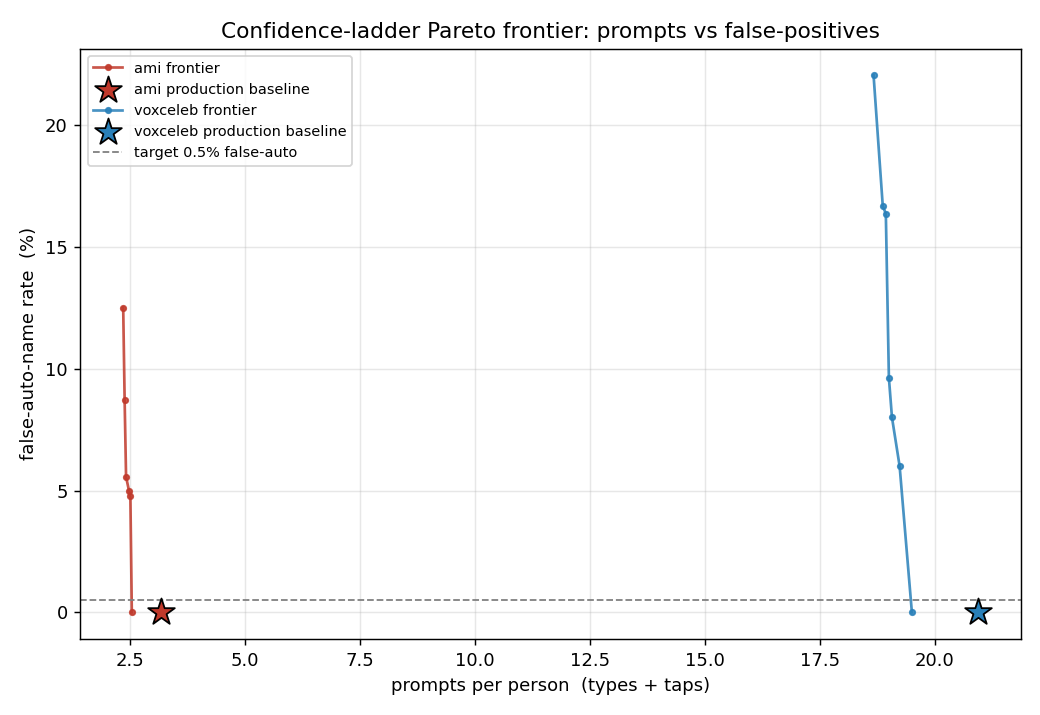
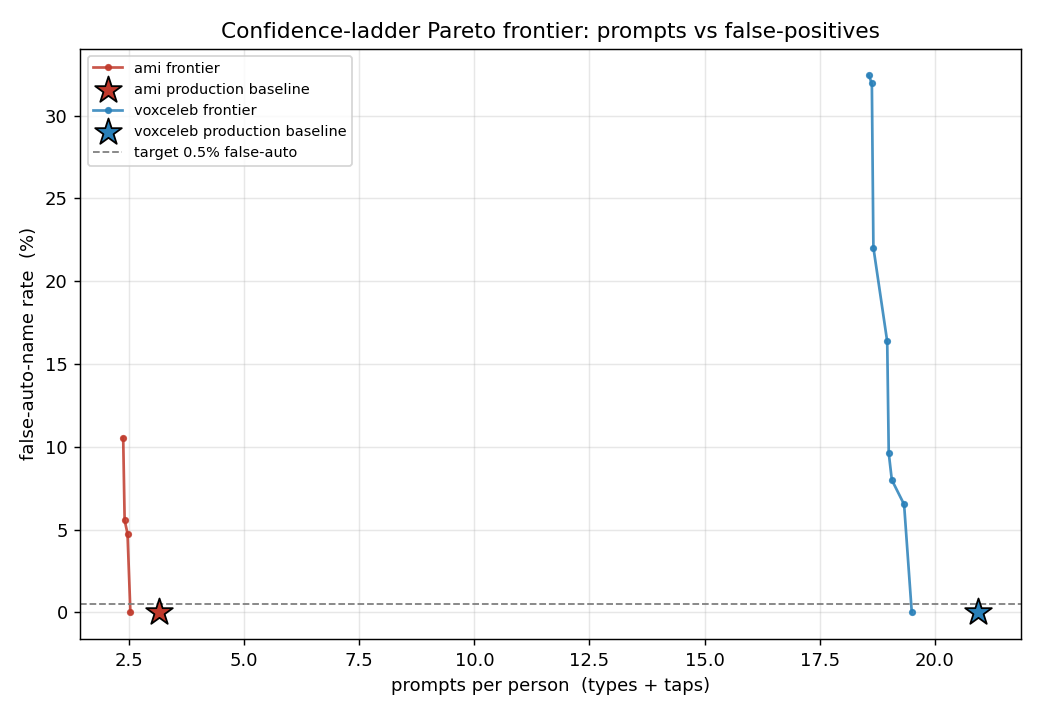
eval(ladder): fix two P2 sim-accounting bugs from independent review
Codex review (PASS, no P1) found two accounting bugs that biased non-baseline policy rows:
- Pre-poison snapshot was taken AFTER the EMA blend, so demote+un-blend restored the
  already-poisoned centroid. Now snapshot before blend.
- After a wrong-SUGGEST correction / UNKNOWN-merge, evidence was credited using the rejected
  candidate's similarity/margin instead of the true target profile's. Now recompute the
  similarity against the actual profile being updated (user-confirmed => no-competitor margin).

Headline numbers and per-domain recommendations are unchanged (AMI 3.16->2.53 pp, VoxCeleb
20.93->19.50 pp, both 0% false-auto). Demote/un-blend matched-pair deltas refined slightly
(AMI demote +8.2pp false-auto; VoxCeleb un-blend still raises drift). ladder-parity still PASS.

diff --git a/Tools/SpeakerEvalHarness/Sources/speaker-eval-harness/LadderSweep.swift b/Tools/SpeakerEvalHarness/Sources/speaker-eval-harness/LadderSweep.swift
@@ -181,6 +181,12 @@ func simulate(_ policy: Policy, _ cache: FpCache,
     }
 
     func enroll(_ idx: Int, _ query: [Float], correct: Bool, sim: Double, marginGate: Double) {
+        // Snapshot the CLEAN pre-poison centroid BEFORE blending the wrong fingerprint in,
+        // so demote+un-blend can later restore it (else it restores the already-poisoned vector).
+        if !correct && !profiles[idx].poisoned {
+            profiles[idx].prePoison = profiles[idx].embedding
+            profiles[idx].poisoned = true
+        }
         profiles[idx].embedding = emaBlend(existing: profiles[idx].embedding, incoming: query, alpha: policy.emaAlpha)
         profiles[idx].callCount += 1
         profiles[idx].confidence = min(1.0, profiles[idx].confidence + 0.1)
@@ -188,8 +194,6 @@ func simulate(_ policy: Policy, _ cache: FpCache,
         if correct {
             vadd(&profiles[idx].cleanSum, query)
             profiles[idx].cleanCount += 1
-        } else {
-            if !profiles[idx].poisoned { profiles[idx].prePoison = profiles[idx].embedding; profiles[idx].poisoned = true }
         }
     }
 
@@ -201,13 +205,17 @@ func simulate(_ policy: Policy, _ cache: FpCache,
         byLabel[lbl] = profiles.count - 1
     }
 
-    // route a fingerprint to its correct profile (create or merge-by-name); returns whether new
+    // route a fingerprint to its correct profile (create or merge-by-name); returns whether new.
+    // Evidence/credit must reflect THIS profile (the one being updated), not the rejected/global
+    // gate candidate — so recompute the similarity against the true target's centroid here. A
+    // user-confirmed correction is unambiguous, so the margin is treated as no-competitor (∞).
     @discardableResult
-    func routeToCorrect(_ gt: String, _ query: [Float], sim: Double, marginGate: Double) -> Bool {
+    func routeToCorrect(_ gt: String, _ query: [Float]) -> Bool {
         if let idx = byLabel[gt] {
             // repair a disputed profile when the user names it correctly
             if profiles[idx].disputeCount > 0 { profiles[idx].disputeCount = 0 }
-            enroll(idx, query, correct: true, sim: sim, marginGate: marginGate)
+            let trueSim = Transcription.cosineSimilarityStatic(query, profiles[idx].embedding)
+            enroll(idx, query, correct: true, sim: trueSim, marginGate: .infinity)
             return false
         } else {
             createProfile(gt, query)
@@ -239,7 +247,7 @@ func simulate(_ policy: Policy, _ cache: FpCache,
                 perPerson[gt]!.types += 1
                 r.types += 1
                 let existedBefore = byLabel[gt] != nil
-                routeToCorrect(gt, query, sim: best, marginGate: marginGate)
+                routeToCorrect(gt, query)
                 if existedBefore { r.falseUnknowns += 1 }   // missed recurrence
                 correct = true   // user typed the right name -> transcript correct
             } else {
@@ -285,7 +293,7 @@ func simulate(_ policy: Policy, _ cache: FpCache,
                         }
                         // user then names the correct person: new type, or tap-select existing
                         let isNew = (byLabel[gt] == nil)
-                        routeToCorrect(gt, query, sim: best, marginGate: marginGate)
+                        routeToCorrect(gt, query)
                         if isNew { perPerson[gt]!.types += 1; r.types += 1 }
                         else { perPerson[gt]!.taps += 1; r.taps += 1 }
                     }

diff --git a/Tools/SpeakerEvalHarness/LADDER_SWEEP_REPORT.md b/Tools/SpeakerEvalHarness/LADDER_SWEEP_REPORT.md
@@ -29,7 +29,7 @@ Three findings that change how to think about the ladder:
    (AMI: 2.53 vs 2.78 prompts/person), and ties it when audio is poor (VoxCeleb). It reaches
    AUTO faster for confident matches without lowering the bar for shaky ones.
 3. **Demote-on-dispute and un-blend are *not* the lever for false-positives or
-   contamination — and on AMI demote consistently *increases* false-auto** (+7.5 pp across
+   contamination — and on AMI demote consistently *increases* false-auto** (+8.2 pp across
    3,675 matched policy pairs; 0% of pairs improved). The margin gate, not demotion, is the
    false-positive control. (Mechanism + caveats in §6.)
 
@@ -185,10 +185,10 @@ parameter groups per domain — *not* a raw mean, which would be dominated by re
 
 | Domain | mode | Δ false-auto | Δ contam-drift | Δ prompts/person | reduces false-auto in |
 |---|---|---:|---:|---:|---:|
-| AMI | demote vs off | **+7.49 pp** | −0.0017 | +0.19 | **0% of groups** |
-| AMI | demote+un-blend vs off | **+7.49 pp** | −0.0016 | +0.19 | 0% of groups |
-| VoxCeleb | demote vs off | −2.54 pp | −0.0000 | +0.39 | 33% of groups |
-| VoxCeleb | demote+un-blend vs off | +1.16 pp | +0.0043 | +0.35 | 15% of groups |
+| AMI | demote vs off | **+8.20 pp** | −0.0018 | +0.18 | **0% of groups** |
+| AMI | demote+un-blend vs off | **+8.20 pp** | −0.0018 | +0.18 | 0% of groups |
+| VoxCeleb | demote vs off | −2.28 pp | −0.0000 | +0.38 | 31% of groups |
+| VoxCeleb | demote+un-blend vs off | −0.22 pp | +0.0032 | +0.36 | 20% of groups |
 
 **Counterintuitive but consistent: demotion does not reduce contamination, and on AMI it
 *increases* false-auto.** Two mechanisms:
@@ -199,8 +199,8 @@ parameter groups per domain — *not* a raw mean, which would be dominated by re
    0%→5.3% (16→19 autos, 1 of the new ones wrong).
 2. **Demotion/un-blend can't touch the dominant contamination.** The biggest contamination
    source is the *silent* false-auto blend, which by definition is never disputed — so drift
-   barely moves (≤0.004), and un-blend's rollback to a stale pre-poison centroid can even make
-   drift *worse* (VoxCeleb +0.004).
+   barely moves (≤0.003), and un-blend's rollback to a stale pre-poison centroid can even make
+   drift *worse* (VoxCeleb +0.003).
 
 **Implication:** the false-auto and contamination levers are the **margin gate** and **not
 auto-accepting low-margin matches** — not post-hoc demotion. *Caveat:* this rests on the
